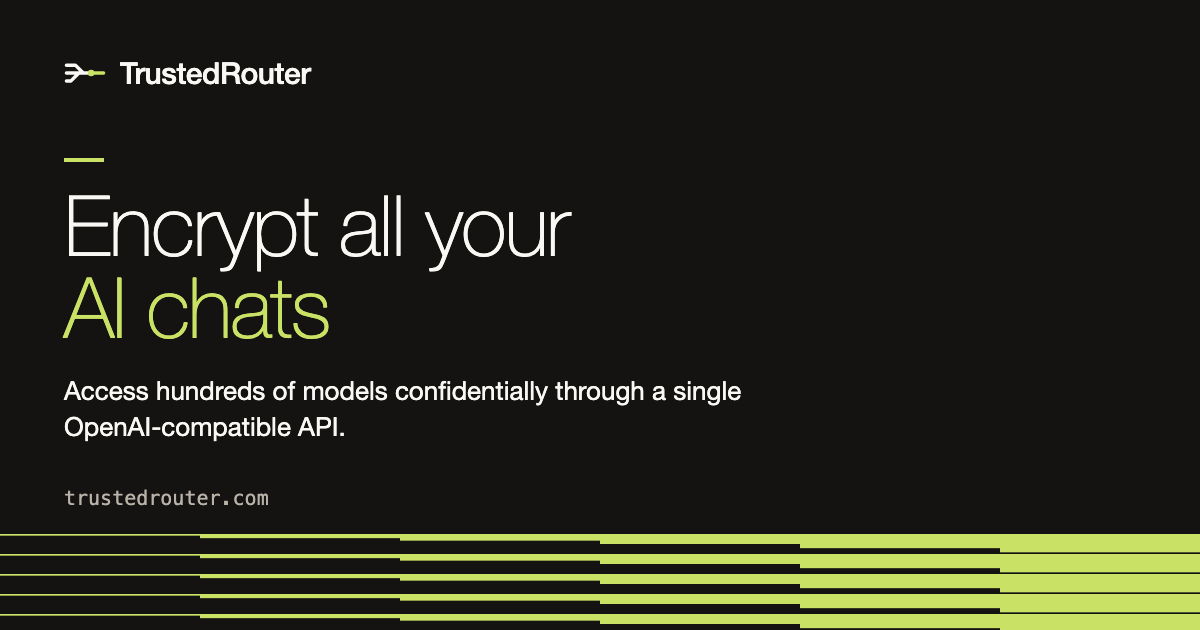
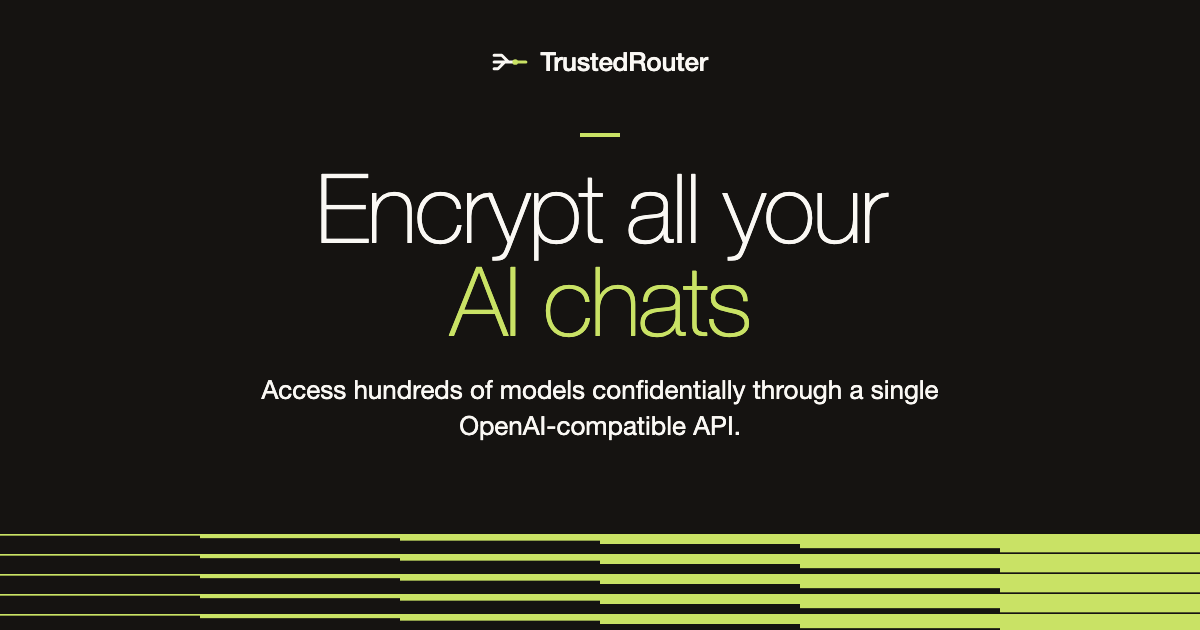
Centre the NYTE share card and give the headline more room

diff --git a/docs/homepage/social-card-nyte.html b/docs/homepage/social-card-nyte.html
@@ -1,13 +1,12 @@
 <!doctype html><html lang="en"><meta charset="utf-8"><title>TrustedRouter social card, NYTE theme</title><style>
 *{box-sizing:border-box}html,body{margin:0;width:1200px;height:630px;overflow:hidden;background:#151311;color:#FAF8F4;font-family:"ABC Pelikan","Helvetica Neue",Helvetica,Arial,sans-serif}
 .card{position:relative;width:1200px;height:630px;overflow:hidden;background:#151311}
-.content{position:relative;padding:52px 64px 0}
-.brand{display:flex;align-items:center;gap:14px;font-size:30px;font-weight:500;letter-spacing:-.5px}
-.brand svg{width:42px;height:42px}
-.bar{width:40px;height:4px;background:#C9E265;margin:64px 0 22px}
-h1{font-size:84px;line-height:.98;letter-spacing:-.02em;font-weight:300;margin:0 0 24px;max-width:1000px}
+.content{position:absolute;left:0;right:0;top:0;bottom:96px;display:flex;flex-direction:column;align-items:center;justify-content:center;text-align:center;padding:0 80px}
+.brand{position:absolute;top:44px;left:0;right:0;display:flex;align-items:center;justify-content:center;gap:12px;font-size:26px;font-weight:500;letter-spacing:-.01em}
+.brand svg{width:36px;height:36px}
+.bar{width:40px;height:4px;background:#C9E265;margin:44px 0 24px}
+h1{font-size:96px;line-height:.96;letter-spacing:-.025em;font-weight:300;margin:0}
 em{font-style:normal;color:#C9E265}
-p{font-size:26px;line-height:1.4;max-width:680px;margin:0;color:#FAF8F4}
-.domain{position:absolute;left:64px;bottom:120px;font:400 20px Menlo,"SF Mono",monospace;color:#B9B2A8}
-.band{position:absolute;left:0;right:0;bottom:0;width:1200px;height:96px;object-fit:cover;object-position:top}
-</style><div class="card"><div class="content"><div class="brand"><svg viewBox="0 0 24 24" aria-hidden="true"><g fill="none" stroke-linecap="round" stroke-linejoin="round"><path d="M1.4 7.5 H6.5 L11 12 M1.4 16.5 H4 L8.5 12 M1.4 12 H15.5" stroke="#FAF8F4" stroke-width="2"></path><circle cx="15.5" cy="12" r="1.9" fill="#C9E265"></circle><path d="M17.4 12 H22.6" stroke="#C9E265" stroke-width="2"></path></g></svg>TrustedRouter</div><div class="bar"></div><h1>Encrypt all your<br><em>AI chats</em></h1><p>Access hundreds of models confidentially through a single OpenAI-compatible API.</p></div><div class="domain">trustedrouter.com</div><img class="band" src="../../src/trusted_router/static/nyte/band-lime.svg" alt=""></div></html>
+p{font-size:26px;line-height:1.4;max-width:720px;margin:26px 0 0;color:#FAF8F4}
+.band{position:absolute;left:0;bottom:0;width:1200px;height:96px;object-fit:cover;object-position:top}
+</style><div class="card"><div class="content"><div class="brand"><svg viewBox="0 0 24 24" aria-hidden="true"><g fill="none" stroke-linecap="round" stroke-linejoin="round"><path d="M1.4 7.5 H6.5 L11 12 M1.4 16.5 H4 L8.5 12 M1.4 12 H15.5" stroke="#FAF8F4" stroke-width="2"></path><circle cx="15.5" cy="12" r="1.9" fill="#C9E265"></circle><path d="M17.4 12 H22.6" stroke="#C9E265" stroke-width="2"></path></g></svg>TrustedRouter</div><div class="bar"></div><h1>Encrypt all your<br><em>AI chats</em></h1><p>Access hundreds of models confidentially through a single OpenAI-compatible API.</p></div><img class="band" src="../../src/trusted_router/static/nyte/band-lime.svg" alt=""></div></html>
